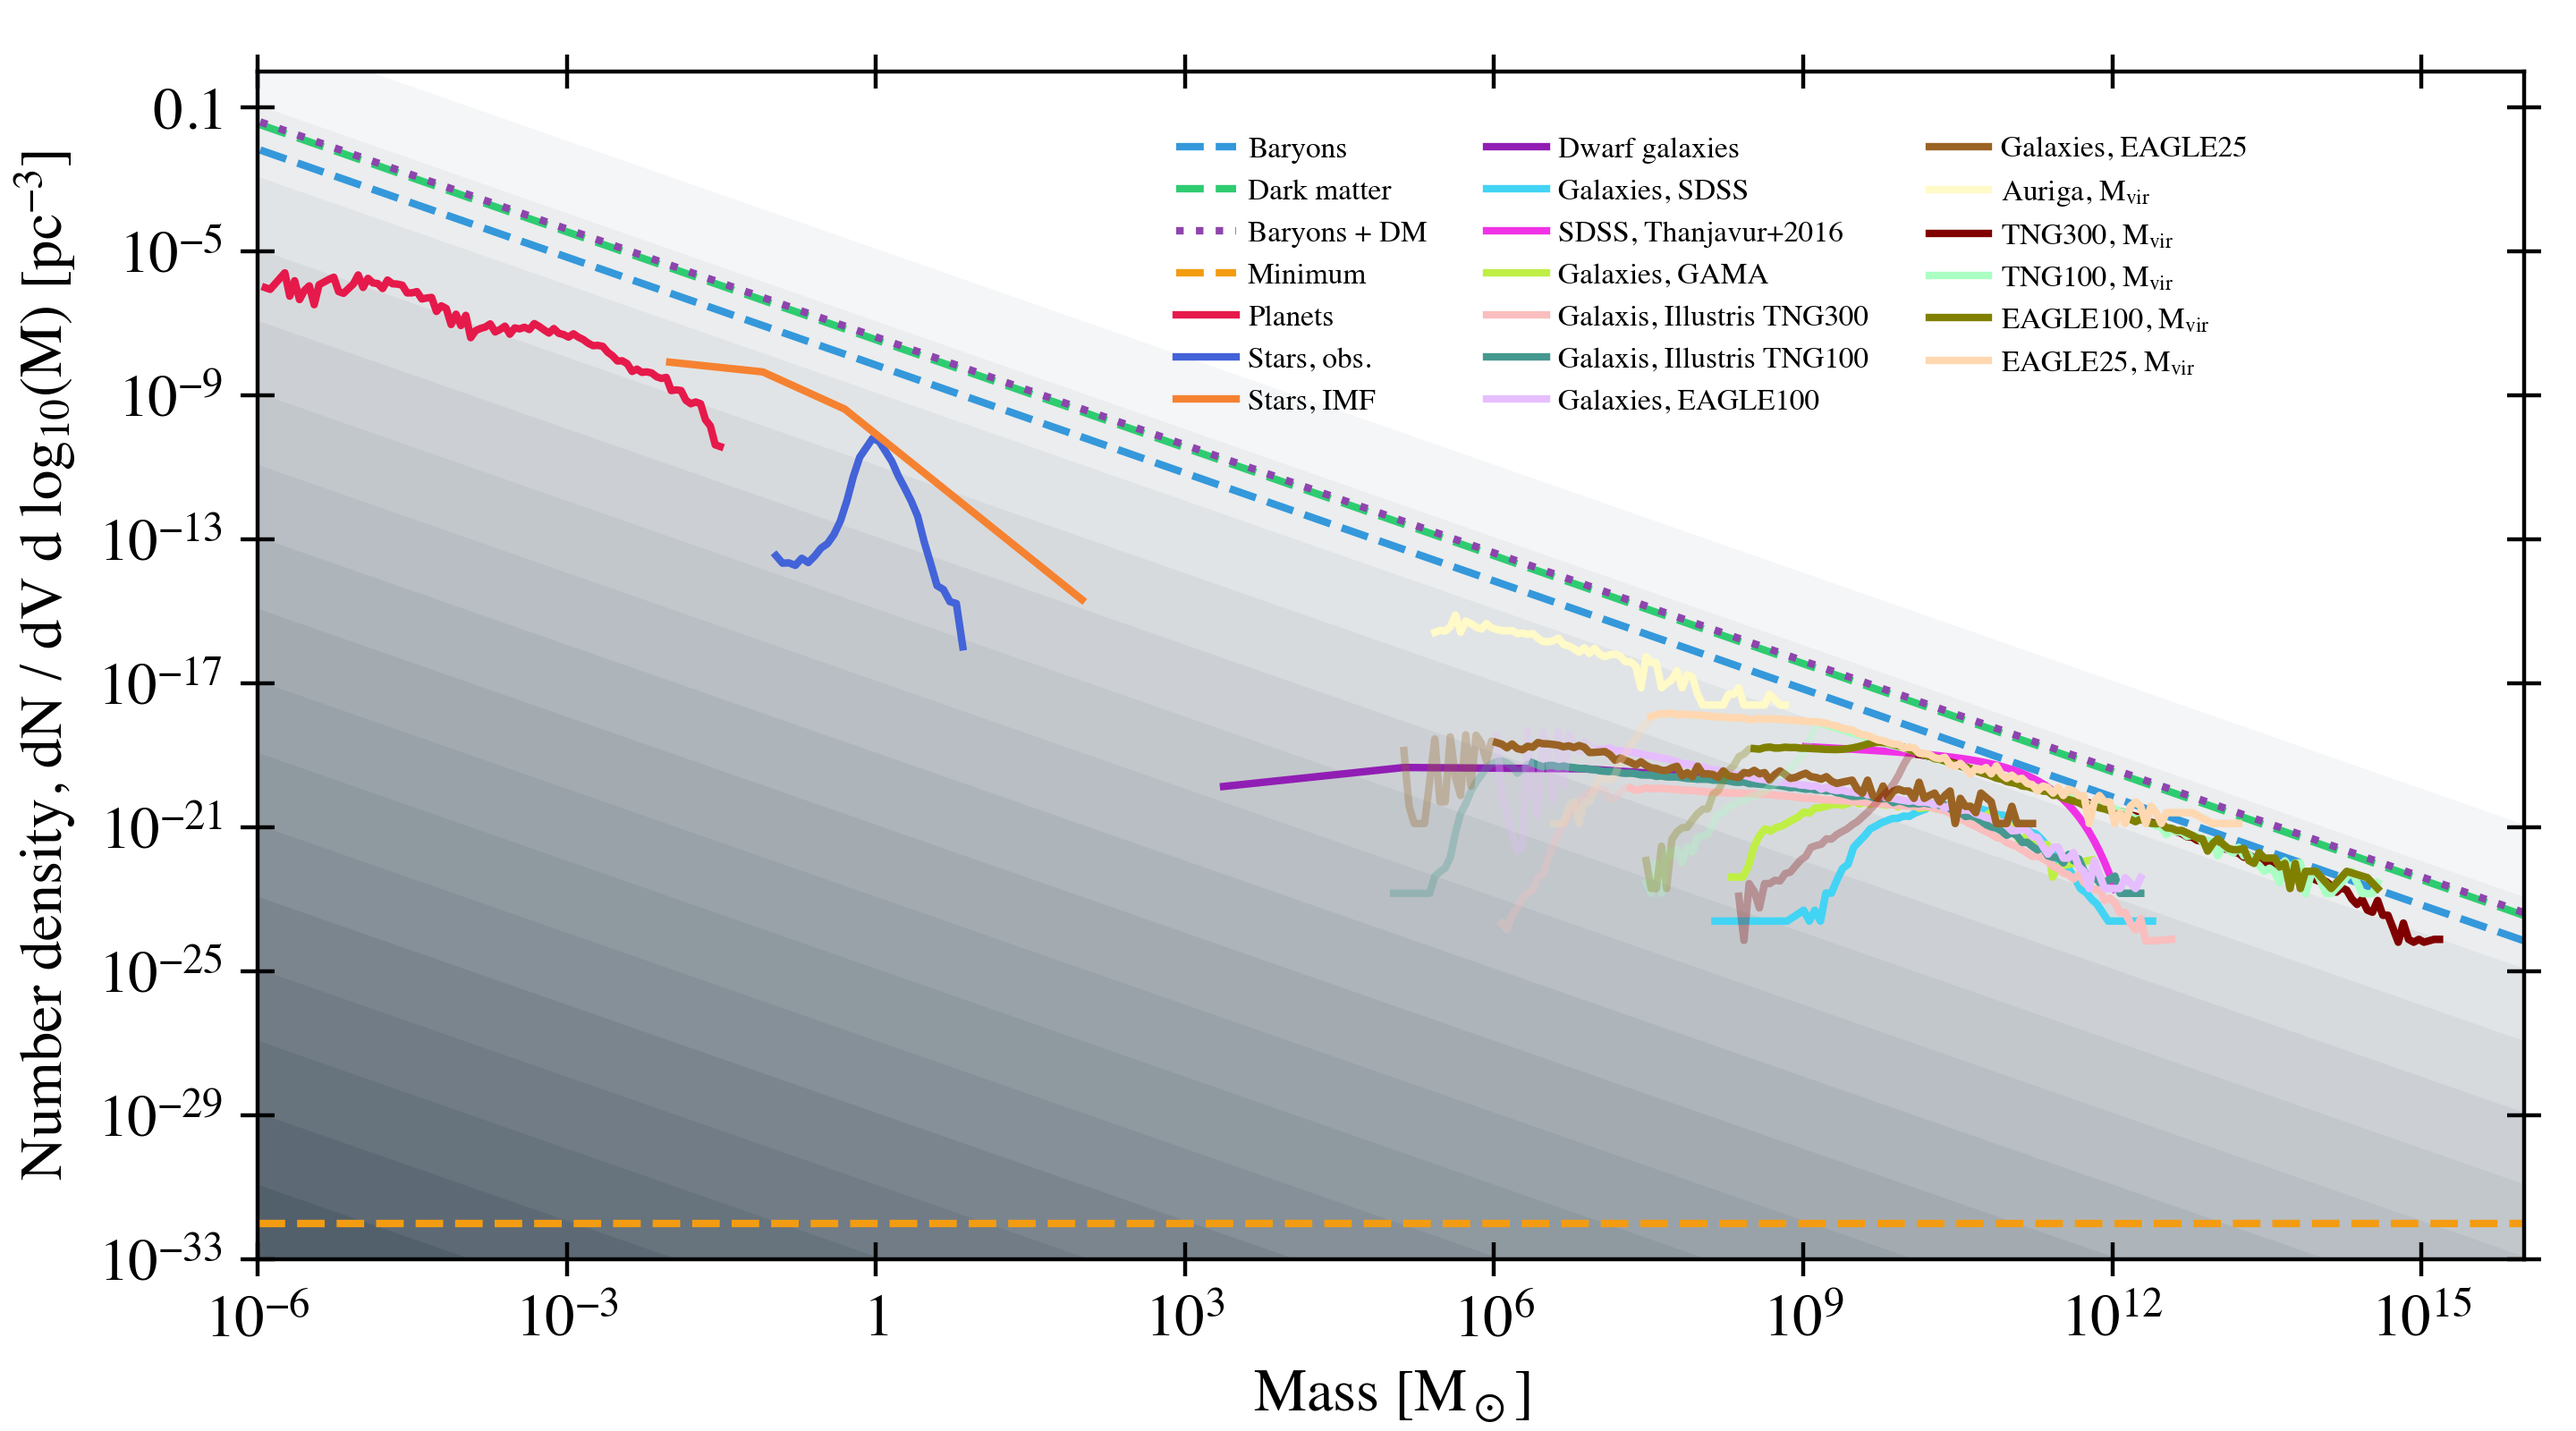
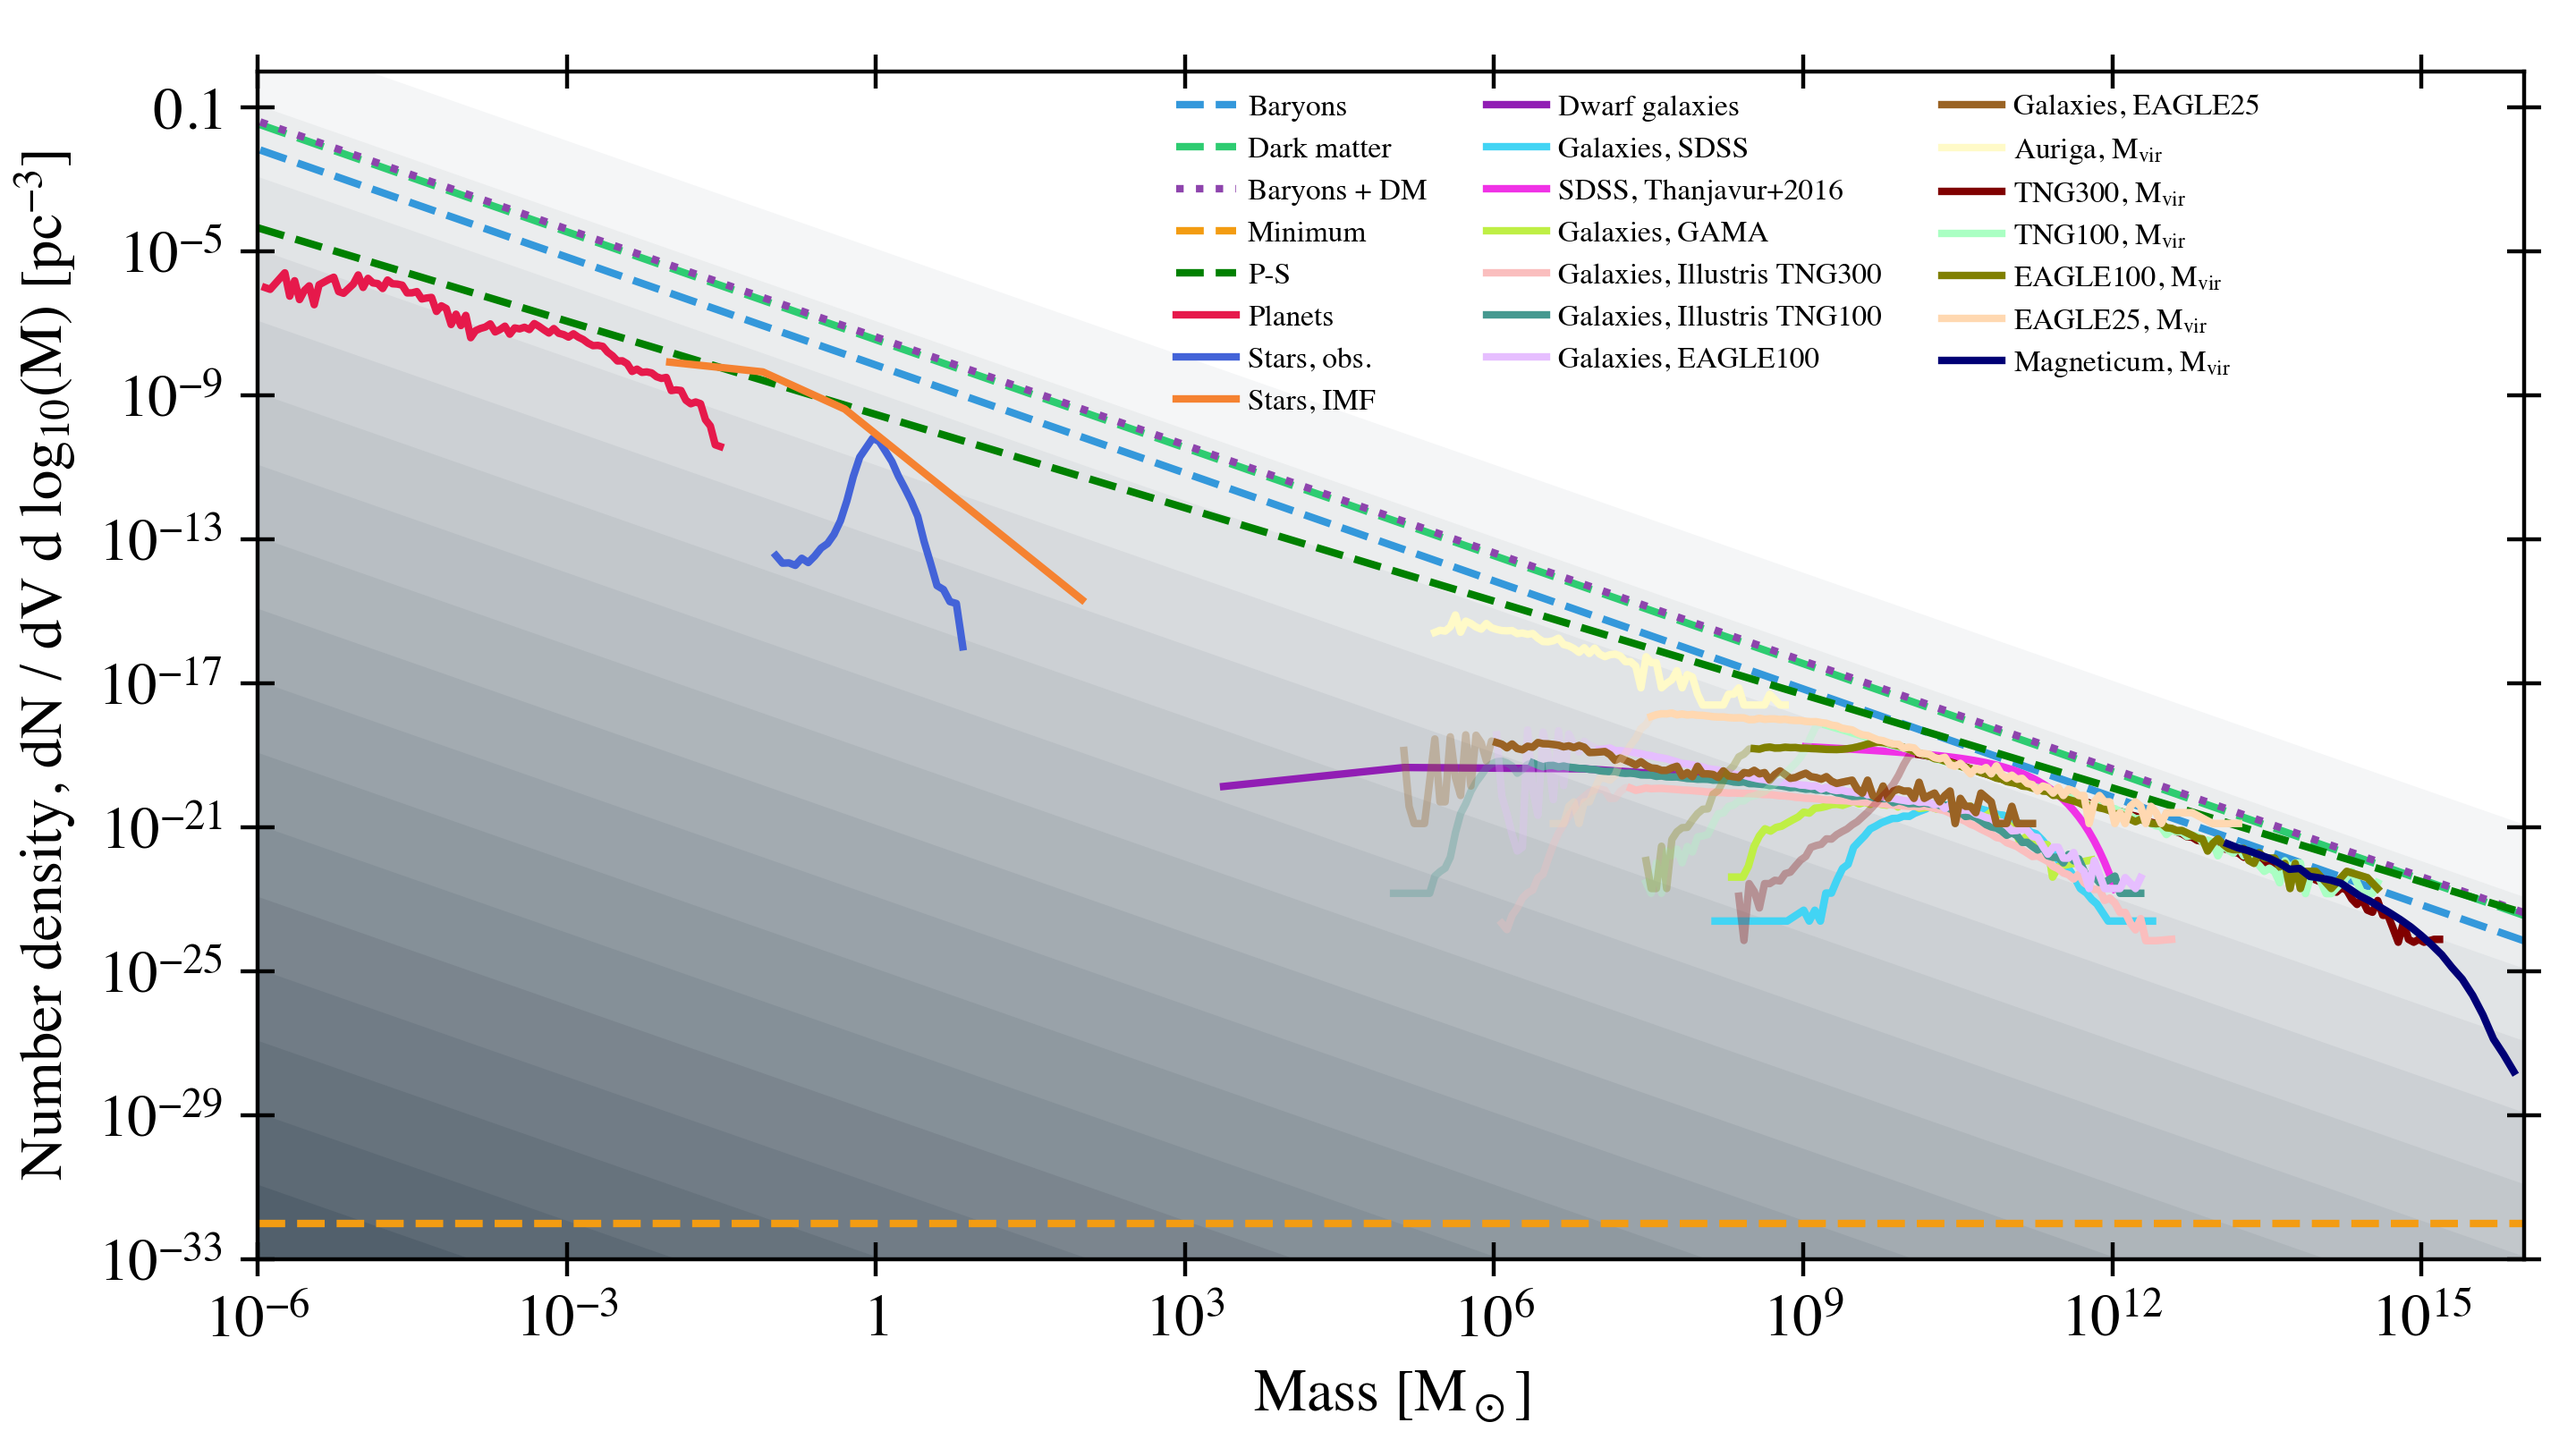
magneticum data fix

diff --git a/figures/histogram_plots.py b/figures/histogram_plots.py
@@ -16,8 +16,8 @@ data = [
         ['Galaxies, SDSS', 'galaxies_obs_SDSS.txt', 1e7, '#42d4f4', '-'],
         ['SDSS, Thanjavur+2016', 'sdss_thanjavur2016.txt', 0, '#f032e6', '-'],
         ['Galaxies, GAMA', 'galaxies_obs_GAMA.txt', 1e7, '#bfef45', '-'],
-        ['Galaxis, Illustris TNG300', 'illustris/BigPlotData_TNG300_mstar.txt', 2e7, '#fabebe', '-'],
-        ['Galaxis, Illustris TNG100', 'illustris/BigPlotData_TNG100_mstar.txt', 2.3e6, '#469990', '-'],
+        ['Galaxies, Illustris TNG300', 'illustris/BigPlotData_TNG300_mstar.txt', 2e7, '#fabebe', '-'],
+        ['Galaxies, Illustris TNG100', 'illustris/BigPlotData_TNG100_mstar.txt', 2.3e6, '#469990', '-'],
         ['Galaxies, EAGLE100', 'eagle/BigPlotData_EAGLE_mstar.txt', 1e7, '#e6beff', '-'],
         ['Galaxies, EAGLE25', 'eagle/BigPlotData_EAGLE25_mstar.txt', 1e6, '#9A6324', '-'],
         ['Auriga, M$_{vir}$', 'BigPlotData_Auriga_mvir.txt', 0, '#fffac8', '-'],
@@ -25,7 +25,7 @@ data = [
         ['TNG100, M$_{vir}$', 'illustris/BigPlotData_TNG100_mvir.txt', 1.5e9, '#aaffc3', '-'],
         ['EAGLE100, M$_{vir}$', 'eagle/BigPlotData_EAGLE_mvir.txt', 3e8, '#808000', '-'],
         ['EAGLE25, M$_{vir}$', 'eagle/BigPlotData_EAGLE25_mvir.txt', 3e7, '#ffd8b1', '-'],
-        #['Magneticum, M$_{vir}$', 'BigPlotData_Magneticum_mvir.txt', 0, '#000075', '-']
+        ['Magneticum, M$_{vir}$', 'BigPlotData_Magneticum_mvir.txt', 0, '#000075', '-']
        ]
 
 xlab, ylab = [r'Mass [M$_\odot]$', r'Number density, dN / dV d log$_{10}$(M) [pc$^{-3}]$']
@@ -57,7 +57,7 @@ ax1.plot(M_lim, cdm,  c='#2ECC71', ls='--', label='Dark matter')
 ax1.plot(M_lim, matter, c='#8E44AD', ls=':', label='Baryons + DM')
 ax1.axhline(nmin, ls='--', c='#F39C12', label='Minimum')
 #ax1.plot(M_lim, ncollapse / M_lim, ls='--', c='k', label='Self-collapse')
-#ax1.plot(m_nps, nps, ls='--', c='g', label='nps')
+ax1.plot(m_nps[:-1], nps, ls='--', c='g', label='P-S')
 
 
 ## observations and simulations

diff --git a/data_generation/theoretical_constraints.py b/data_generation/theoretical_constraints.py
@@ -32,3 +32,4 @@ rhoav= matter*M_lim
 dndM = (gamma_ps/np.sqrt(np.pi))*(M_lim**(gamma_ps/2.0 - 2.0))*Bt*rhoav*np.exp(-(Bt**2)*(M_lim**gamma_ps))
 nps = (1.0/(np.sqrt(np.pi)))*(Bt**(2.0/gamma_ps))*rhoav * gammainc(0.5 - 1.0/gamma_ps, Bt*Bt*(M_lim**gamma_ps))
 m_nps, nps = np.genfromtxt(pwd + '/../data/' + 'ps_data.csv', delimiter=',').T
+nps = nps[:-1] / np.diff(np.log10(m_nps))
